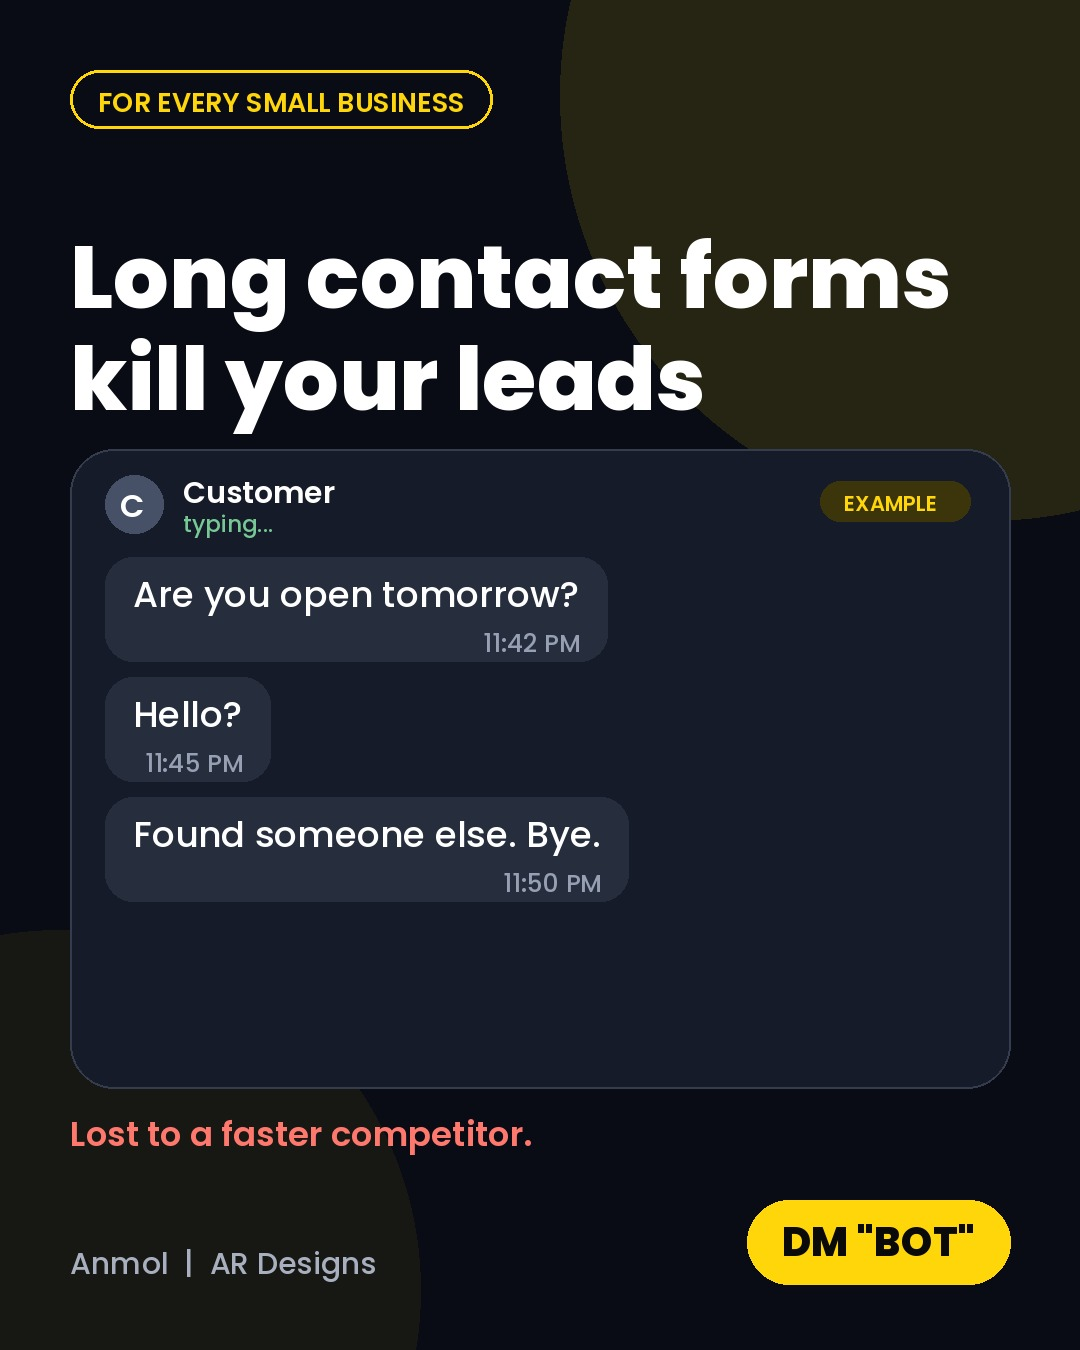
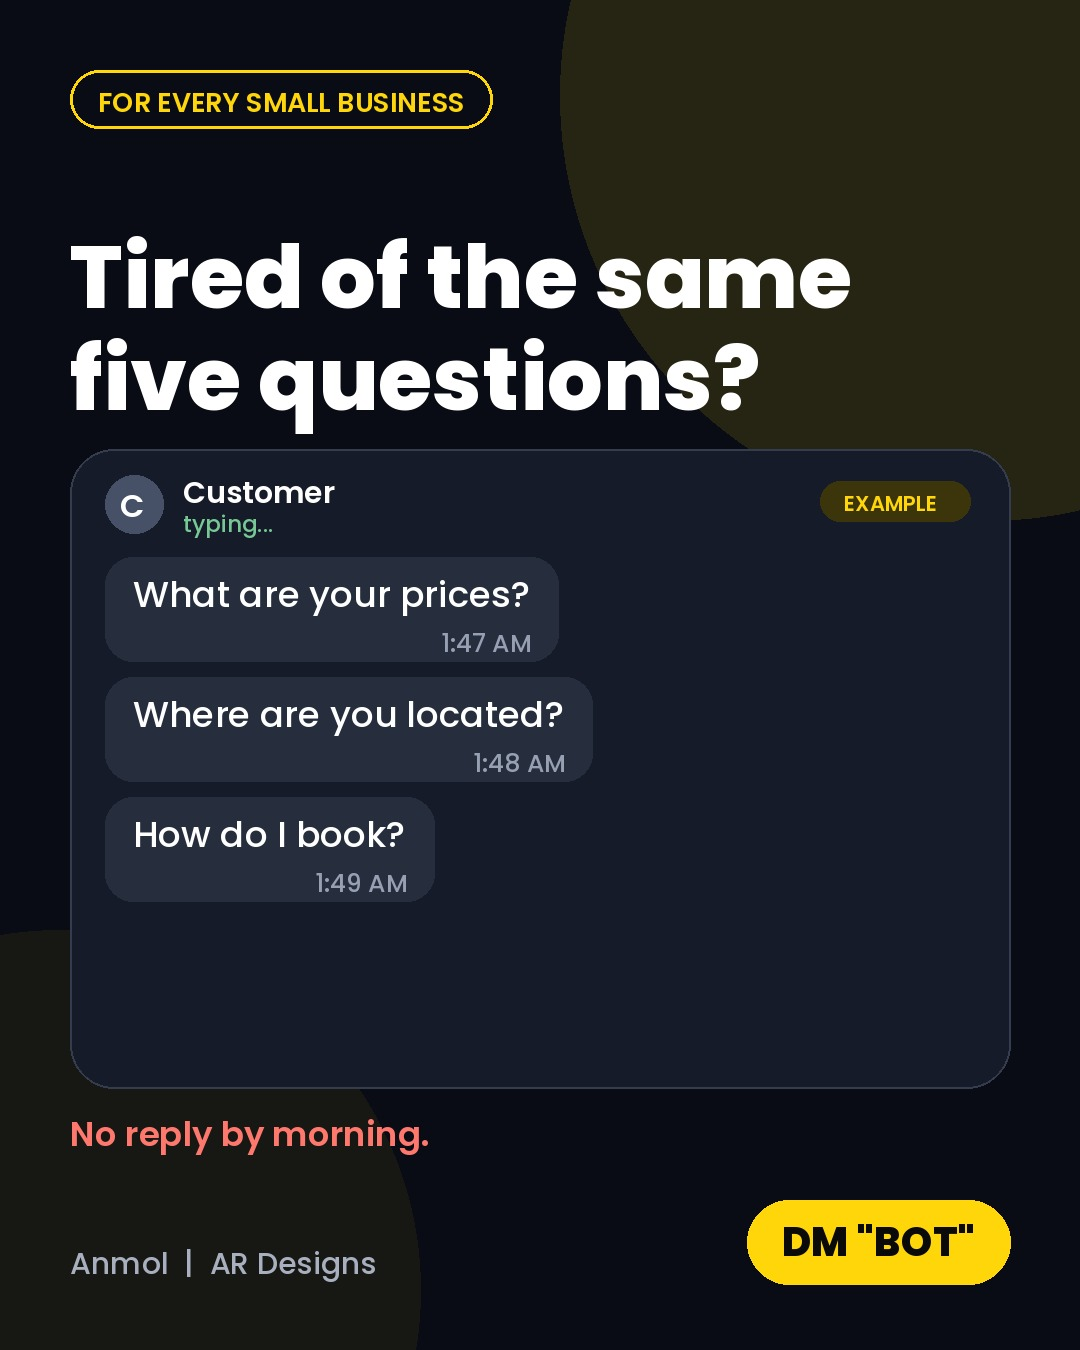
draft: 2026-10-12

Changed region(s): [[0.0611, 0.1556, 0.8861, 0.3422], [0.1222, 0.4356, 0.55, 0.6844], [0.0611, 0.8089, 0.4889, 0.8711]]

diff --git a/data/strategy.md b/data/strategy.md
@@ -1,5 +1,3 @@
-- Hook style to try next: Problem-Agitate-Solve (e.g., "11 PM WhatsApp flood → lost bookings → bot handles it")
-- Avoid repeating "Rs 1499, 24 hrs" phrasing; it's used in 3/6 posts
-- High skip rates (64-75%) mean first 3 seconds fail — open with visual proof, not talking head
-- Share rate 51% on clock reel came from collab, not content; don't rely on collabs for reach
-- Posts must show real dev work: screen recordings, code snippets, live bot replies — never read like an ad
+- Hook style to try next: **Demo Proof** — show a 5-second screen capture of a chatbot answering a real hotel/cafe query, then cut to result. Rotate away from Myth Bust and Presenter clock.
+- Avoid: generic "24-hour delivery" claims (used 3×), "Rs 1,499" price lead (used 2×), and static service carousels — they repeat and skip rates stay >60%.
+- Every post must show *your* code/UI: a live bot snippet, a dashboard screenshot, or a WhatsApp chat export. Never read like an ad; caption = one technical detail + one client outcome.
